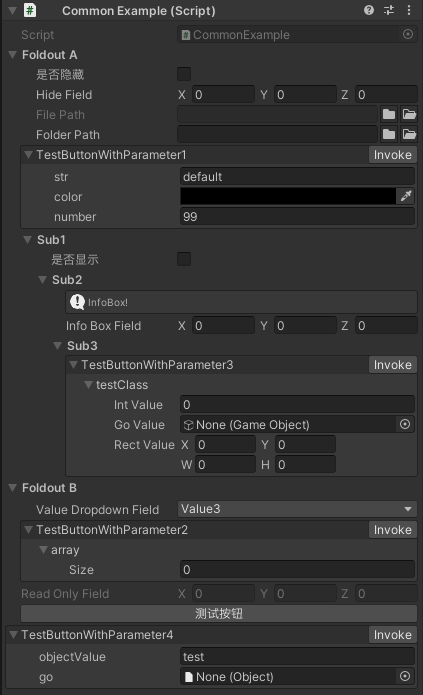
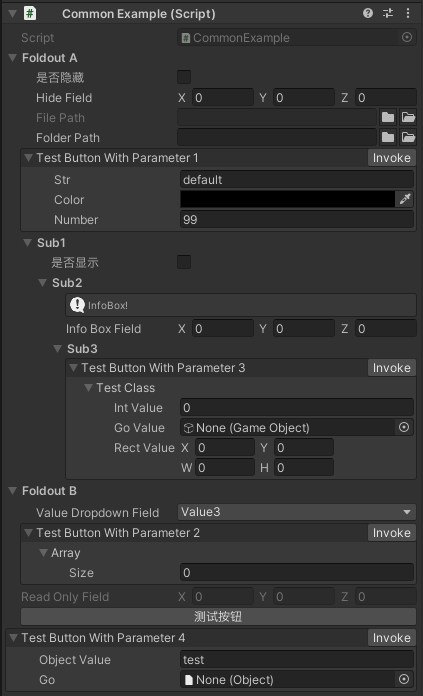
Modify Button name and Parameter name to camel case

diff --git a/Core/Editor/ButtonDrawer.cs b/Core/Editor/ButtonDrawer.cs
@@ -19,7 +19,7 @@ namespace CustomizationInspector.Editor
 		    
 		    public Parameter(string name, Type type, object value)
 		    {
-			    Name = name;
+			    Name = EditorUtil.SplitCamelCase(name);
 			    Type = type;
 			    Value = value;
 			    content = new GUIContent(Name);
@@ -60,7 +60,7 @@ namespace CustomizationInspector.Editor
 		    public Button(MethodInfo methodInfo, string name)
 		    {
 			    MethodInfo = methodInfo;
-			    Name = name ?? methodInfo.Name;
+			    Name = name ?? EditorUtil.SplitCamelCase(methodInfo.Name);
 			    var parameterInfos = methodInfo.GetParameters();
 			    if (parameterInfos.Length == 0)
 			    {
